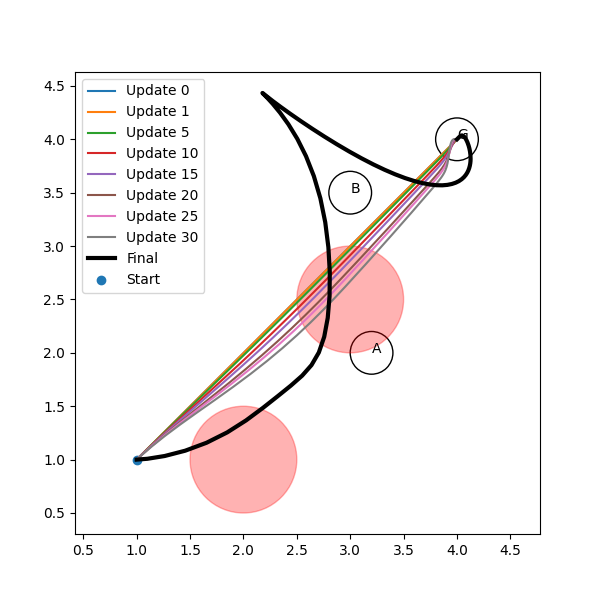
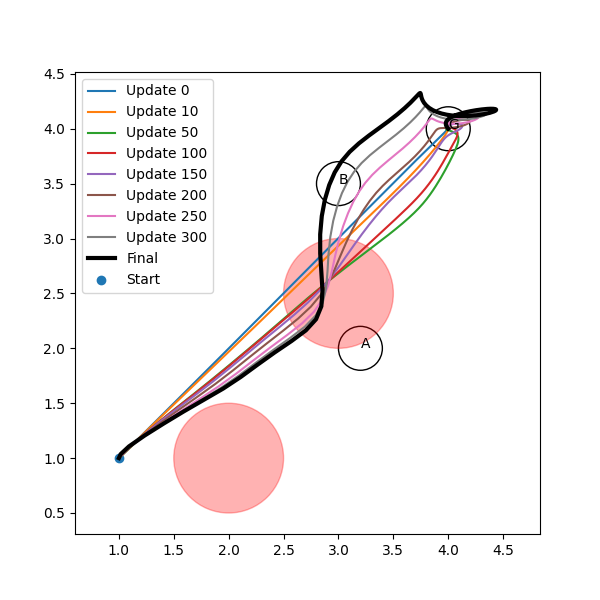
case 2 working seems good

diff --git a/main.py b/main.py
@@ -12,51 +12,66 @@ from pibb import PIBB
 # Hyperparameters (SET HERE)
 # ----------------------------
 
-k1 = 40.0      # smooth min sharpness
-k2 = 40.0      # smooth max sharpness
-h = 10.0       # PIBB eliteness parameter
-M = 50        # number of samples (20–40 recommended)
-iterations = 350  # 100–200 recommended
 
-# ----------------------------
 
-n_dims = 2
-n_basis = 25
-T = 300
+USE_CASE = 2
+if USE_CASE == 1:
+    k1 = 40.0      # smooth min sharpness
+    k2 = 40.0      # smooth max sharpness
+    h = 10.0       # PIBB eliteness parameter
+    M = 50        # number of samples (20–40 recommended)
+    iterations = 350  # 100–200 recommended
+
+    # ----------------------------
+
+    n_dims = 2
+    n_basis = 25
+    T = 300
+    regions = {
+        'A': (np.array([3.2, 2.0]), 0.2),
+        'B': (np.array([3.0, 3.5]), 0.2),
+        'G': (np.array([4.0, 4.0]), 0.2)
+    }
+
+    obstacles = {
+        'O1': (np.array([2.0, 1.0]), 0.5),
+        'O2': (np.array([3.0, 2.5]), 0.5)
+    }
+
+    y0 = np.array([1.0, 1.0])
+    g  = np.array([4.0, 4.0])
+    
+else:
+    k1 = 40.0      # smooth min sharpness
+    k2 = 40.0      # smooth max sharpness
+    h = 10.0       # PIBB eliteness parameter
+    M = 50        # number of samples (20–40 recommended)
+    iterations = 250  # 100–200 recommended
+
+    # ----------------------------
+
+    n_dims = 2
+    n_basis = 15
+    T = 300
+    regions = {
+        'A': (np.array([0.5, 0.8]), 0.05),
+        'B': (np.array([0.8, 0.2]), 0.05),
+        'G': (np.array([1.0, 1.0]), 0.05)
+    }
+
+    obstacle = (np.array([0.6, 0.6]), 0.15)
+    weights = [1.0, 4.0]
+
+    y0 = np.array([0.0, 0.0])
+    g = np.array([1.0, 1.0])
+
+
 
 dmp = DMP(n_dims, n_basis)
 
 theta_init = np.random.randn(n_dims * n_basis) * 0.1
-optimizer = PIBB(theta_init)
-
-regions = {
-    'A': (np.array([3.2, 2.0]), 0.2),
-    'B': (np.array([3.0, 3.5]), 0.2),
-    'G': (np.array([4.0, 4.0]), 0.2)
-}
-
-obstacles = {
-    'O1': (np.array([2.0, 1.0]), 0.5),
-    'O2': (np.array([3.0, 2.5]), 0.5)
-}
-
-y0 = np.array([1.0, 1.0])
-g  = np.array([4.0, 4.0])
-
+optimizer = PIBB(theta_init)  
 stored_trajs = {}
-USE_CASE = 1
-
-# regions = {
-#     'A': (np.array([0.5, 0.8]), 0.2),
-#     'B': (np.array([0.8, 0.2]), 0.2),
-#     'G': (np.array([1.0, 1.0]), 0.2)
-# }
-
-# obstacle = (np.array([0.6, 0.6]), 0.15)
-# weights = [1.0, 2.0]
-
-# y0 = np.array([0.0, 0.0])
-# g = np.array([1.0, 1.0])
 
 for it in range(iterations):
 
@@ -92,11 +107,11 @@ for it in range(iterations):
                 k1=k1,
                 k2=k2
             )
-
-        #rho_true = robustness_case2_hard(traj, regions, obstacle, weights)
+            rho_true = robustness_case2_hard(traj, regions, obstacle, weights)
+            print(f"Rho True: {rho_true:.4f} at itr: {it}") if rho_true >= 0 else None
 
         print(f"Rho: {rho:.4f}") if rho > 0 else None
-        #print(f"Rho True: {rho_true:.4f} at itr: {m}") 
+        
 
         J = -rho if rho < 0 else 0
 
@@ -112,43 +127,54 @@ for it in range(iterations):
         stored_trajs[it] = traj.copy()
 
     print(f"Iter {it} | Mean Cost {np.mean(costs):.4f}")
+    if np.mean(costs) < 1e-4:
+        print("Converged!")
+        break
+
 
 # Final trajectory
 plt.figure(figsize=(6,6))
 
-# Plot stored intermediate trajectories
-for k, v in stored_trajs.items():
-    plt.plot(v[:,0], v[:,1], label=f"Update {k}")
+if USE_CASE == 1:
+    # Plot stored intermediate trajectories
+    for k, v in stored_trajs.items():
+        plt.plot(v[:,0], v[:,1], label=f"Update {k}")
 
-# Plot final trajectory thicker
-plt.plot(traj[:,0], traj[:,1], 'k', linewidth=3, label="Final")
+    # Plot final trajectory thicker
+    theta_final = optimizer.theta.reshape(n_dims, n_basis)
+    traj_final = dmp.rollout(theta_final, y0, g, T)
 
-# Plot regions
-for name, (center, radius) in regions.items():
-    circle = plt.Circle(center, radius, fill=False)
+    plt.plot(traj_final[:,0], traj_final[:,1], 'k', linewidth=3, label="Final")
+
+    # Plot regions
+    for name, (center, radius) in regions.items():
+        circle = plt.Circle(center, radius, fill=False)
+        plt.gca().add_patch(circle)
+        plt.text(center[0], center[1], name)
+
+    # Plot obstacles
+    for name, (center, radius) in obstacles.items():
+        circle = plt.Circle(center, radius, color='red', alpha=0.3)
+        plt.gca().add_patch(circle)
+
+    plt.scatter(*y0, label="Start")
+    plt.legend()
+    plt.axis("equal")
+    plt.savefig("case1_evolution.png")
+    print("Saved case1_evolution.png")
+else:
+    theta_final = optimizer.theta.reshape(n_dims, n_basis)
+    traj = dmp.rollout(theta_final, y0, g, T)
+
+    plt.plot(traj[:,0], traj[:,1])
+    plt.scatter(*regions['A'][0], c='r', label='A')
+    plt.scatter(*regions['B'][0], c='g', label='B')
+    plt.scatter(*regions['G'][0], c='b', label='G')
+    center, radius = obstacle
+    circle = plt.Circle(center, radius, color='black', alpha=0.3)
     plt.gca().add_patch(circle)
-    plt.text(center[0], center[1], name)
+    plt.scatter(*center, c='k')
+    plt.legend()
 
-# Plot obstacles
-for name, (center, radius) in obstacles.items():
-    circle = plt.Circle(center, radius, color='red', alpha=0.3)
-    plt.gca().add_patch(circle)
-
-plt.scatter(*y0, label="Start")
-plt.legend()
-plt.axis("equal")
-plt.savefig("case1_evolution.png")
-print("Saved case1_evolution.png")
-
-# theta_final = optimizer.theta.reshape(n_dims, n_basis)
-# traj = dmp.rollout(theta_final, y0, g, T)
-
-# plt.plot(traj[:,0], traj[:,1])
-# plt.scatter(*regions['A'][0], c='r', label='A')
-# plt.scatter(*regions['B'][0], c='g', label='B')
-# plt.scatter(*regions['G'][0], c='b', label='G')
-# plt.scatter(*obstacle[0], c='k', label='Obstacle')
-# plt.legend()
-
-# plt.savefig("trajectory.png")
-# print("Saved trajectory.png")
+    plt.savefig("trajectory.png")
+    print("Saved trajectory.png")

diff --git a/pibb.py b/pibb.py
@@ -2,7 +2,7 @@
 import numpy as np
 
 class PIBB:
-    def __init__(self, theta_init, lambda_init=0.1, lambda_min=1e-4, lambda_max=10.0):
+    def __init__(self, theta_init, lambda_init=1, lambda_min=1e-4, lambda_max=10.0):
         self.theta = theta_init
         self.Sigma = lambda_init * np.eye(len(theta_init))
         self.lambda_min = lambda_min
